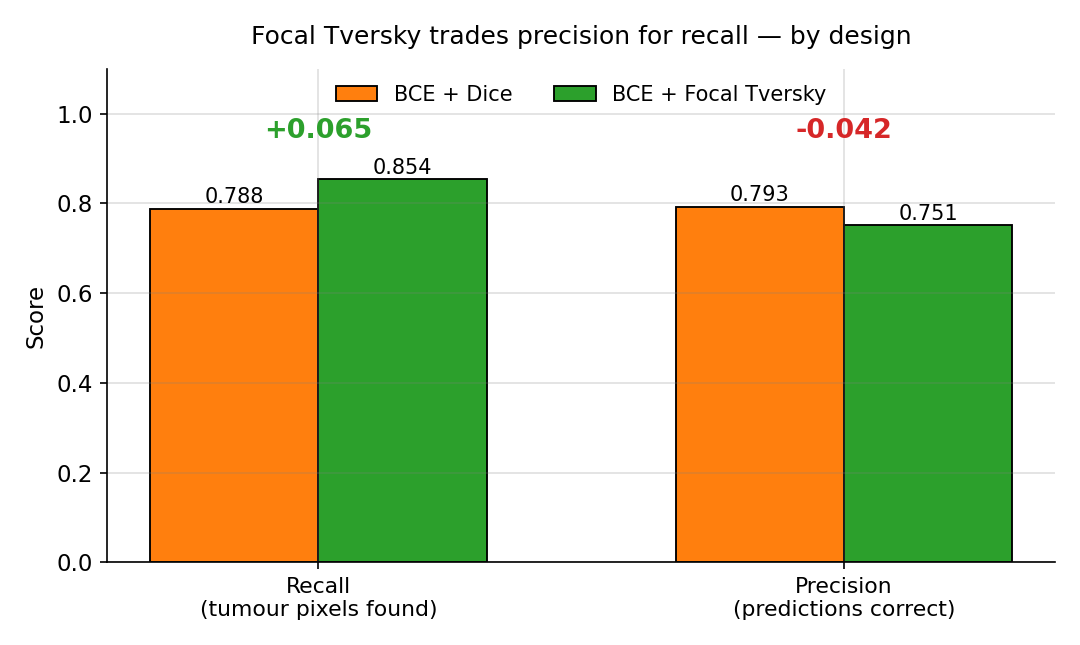
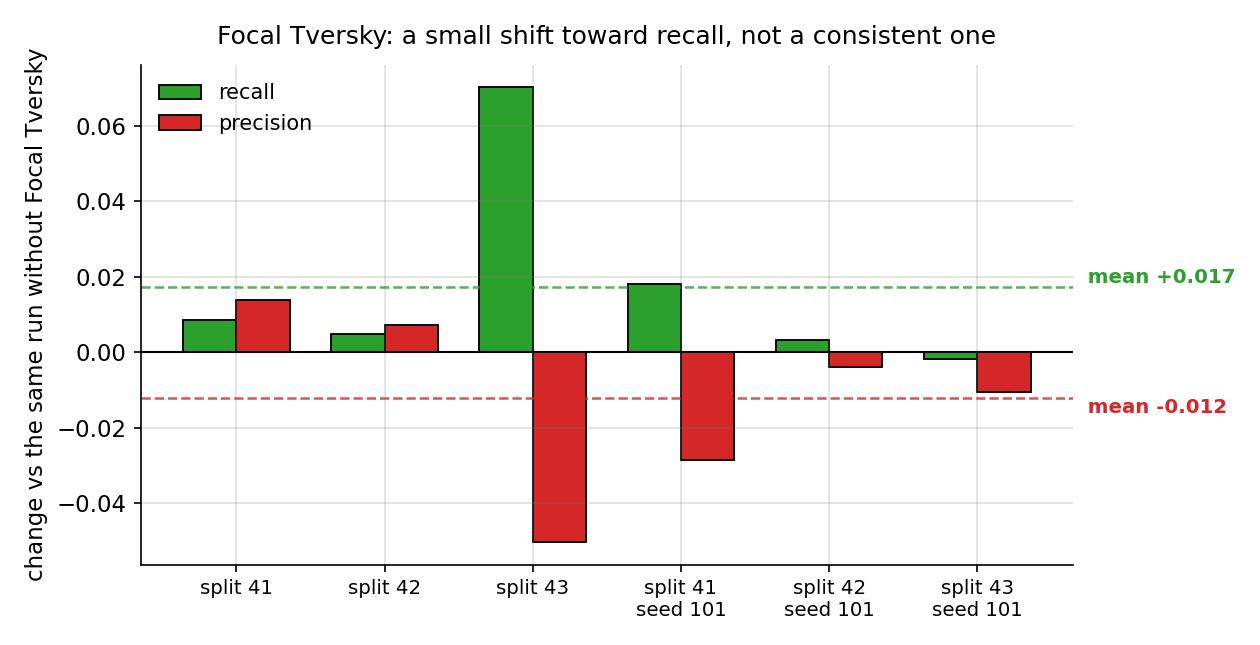
Keep the speaker notes out of the repository
The notes are working material -- rehearsal phrasing, planned answers to questions,
and candid statements about our own mistakes. They were exposed three ways: 33,329
characters embedded in the notes pane of UNeXt_presentation.pptx, the two standalone
notes decks, and the generator scripts, which carry the same text as source.

All three are now untracked and gitignored. make_pptx.py builds two files: a local
UNeXt_presentation_NOTES.pptx to present from, and the committed UNeXt_presentation.pptx
with the notes removed. make_figures.py stays tracked -- it builds figures from the run
data and contains no note text.

strip_notes.py removes the notesSlide parts and their relationships rather than blanking
the text, so nothing remains in the package to recover, and verifies the output before
returning; make_pptx.py refuses to write the shareable copy if verification fails.
Checked at the zip level: the original has 34 notesSlide parts and 7 parts containing
note phrases, the stripped copy has zero of both.

Also corrected the Focal Tversky appendix, which was outdated. It claimed recall
0.7882 -> 0.8536 and precision 0.7928 -> 0.7510. Those four numbers were hardcoded into
make_figures.py, appear in no log or eval file, and turn out to be busi_split43_ftl
alone -- the outlier. pr_eval.py now measures precision and recall from the checkpoints
for all six paired runs and writes precision_recall.csv: the real effect is recall
[…]

diff --git a/unext/pr_eval.py b/unext/pr_eval.py
@@ -1,0 +1,114 @@
+"""Pixel precision and recall per run, on the run's own validation split.
+
+The appendix slide on Focal Tversky quoted recall 0.7882 -> 0.8536 and precision
+0.7928 -> 0.7510. Those four numbers appear in no log file, no eval.yml, and nowhere in
+EXPERIMENTS.md -- they were hardcoded into make_figures.py from a measurement whose
+output no longer exists, and they describe a single split rather than the six paired
+runs we now have.
+
+This recomputes them from the checkpoints, so the figure can be built from evidence.
+
+Both conventions are reported, because they answer different questions and can disagree:
+  aggregate  -- pool every pixel in the split, then take the ratio. Large lesions
+                dominate. This matches the IoU convention train.py selects on.
+  per-image  -- compute per scan, then average. Every scan counts equally.
+
+Usage:
+    python pr_eval.py                     # the six aug/ftl pairs
+    python pr_eval.py --runs a b --csv pr.csv
+"""
+
+import argparse
+import csv
+import os
+
+import numpy as np
+import torch
+
+import boundary_eval as B
+import normal_eval as N
+
+HERE = os.path.dirname(os.path.abspath(__file__))
+
+PAIRS = [(f'busi_split{s}_ftl{sfx}', f'busi_split{s}_aug{sfx}')
+         for sfx in ('', '_s101') for s in (41, 42, 43)]
+
+
+def evaluate(name, thresh=0.5):
+    model, cfg = N.load_model(name)
+    if model is None:
+        return None
+    dev = torch.device('cuda' if torch.cuda.is_available() else 'cpu')
+    model = model.to(dev).eval()
+
+    tp = fp = fn = 0
+    precs, recs = [], []
+    with torch.no_grad():
+        for x, y, _ in B.val_loader(cfg):
+            p = (torch.sigmoid(model(x.to(dev))) > thresh).cpu().numpy()[0, 0]
+            g = y.numpy()[0, 0] > 0.5
+            a = int(np.logical_and(p, g).sum())
+            b = int(np.logical_and(p, ~g).sum())
+            c = int(np.logical_and(~p, g).sum())
+            tp += a
+            fp += b
+            fn += c
+            # per-image: a scan with no predicted positives has undefined precision;
+            # skip it there rather than scoring it 0, which would understate precision.
+            if a + b:
+                precs.append(a / (a + b))
+            if a + c:
+                recs.append(a / (a + c))
+    return {
+        'run': name,
+        'precision': tp / (tp + fp) if tp + fp else 0.0,
+        'recall': tp / (tp + fn) if tp + fn else 0.0,
+        'precision_per_image': float(np.mean(precs)) if precs else 0.0,
+        'recall_per_image': float(np.mean(recs)) if recs else 0.0,
+        'n': len(recs),
+    }
+
+
+def main():
+    ap = argparse.ArgumentParser()
+    ap.add_argument('--runs', nargs='*', default=None)
+    ap.add_argument('--csv', default='precision_recall.csv')
+    a = ap.parse_args()
+
+    runs = a.runs or sorted({r for pair in PAIRS for r in pair})
+    rows = []
+    print(f'{"run":26s} {"prec":>7} {"recall":>7} {"prec/img":>9} {"rec/img":>8}')
+    for r in runs:
+        res = evaluate(r)
+        if res is None:
+            print(f'{r}: no checkpoint')
+            continue
+        rows.append(res)
+        print(f'{res["run"]:26s} {res["precision"]:>7.4f} {res["recall"]:>7.4f} '
+              f'{res["precision_per_image"]:>9.4f} {res["recall_per_image"]:>8.4f}')
+
+    if not a.runs and rows:
+        look = {r['run']: r for r in rows}
+        print(f'\n{"pair":26s} {"d recall":>9} {"d precision":>12}')
+        dr, dp = [], []
+        for ftl, aug in PAIRS:
+            if ftl in look and aug in look:
+                x = look[ftl]['recall'] - look[aug]['recall']
+                y = look[ftl]['precision'] - look[aug]['precision']
+                dr.append(x)
+                dp.append(y)
+                print(f'{ftl.replace("busi_", ""):26s} {x:>+9.4f} {y:>+12.4f}')
+        if dr:
+            print(f'\nmean over {len(dr)} pairs:  recall {np.mean(dr):+.4f}, '
+                  f'precision {np.mean(dp):+.4f}')
+
+    if rows:
+        with open(os.path.join(HERE, a.csv), 'w', newline='', encoding='utf-8') as f:
+            w = csv.DictWriter(f, fieldnames=list(rows[0]))
+            w.writeheader()
+            w.writerows(rows)
+        print(f'\nwrote {a.csv}')
+
+
+if __name__ == '__main__':
+    main()

diff --git a/unext/make_figures.py b/unext/make_figures.py
@@ -334,30 +334,42 @@ def fig6_cumulative():
 
 
 def fig7_precision_recall():
-    """What Focal Tversky actually traded: precision for recall."""
-    fig, ax = plt.subplots(figsize=(7.2, 4.3))
-    metrics = ['Recall\n(tumour pixels found)', 'Precision\n(predictions correct)']
-    bce = [0.7882, 0.7928]
-    ftl = [0.8536, 0.7510]
-    x = np.arange(2); w = 0.32
-    ax.bar(x - w/2, bce, w, color=C_AUG, edgecolor='black', lw=0.9, label='BCE + Dice')
-    ax.bar(x + w/2, ftl, w, color=C_FTL, edgecolor='black', lw=0.9,
-           label='BCE + Focal Tversky')
-    for i in range(2):
-        ax.text(x[i] - w/2, bce[i] + 0.012, f'{bce[i]:.3f}', ha='center', fontsize=10)
-        ax.text(x[i] + w/2, ftl[i] + 0.012, f'{ftl[i]:.3f}', ha='center', fontsize=10)
-    # green where we gained, red where we paid -- the trade is the whole story
-    ax.text(0, 0.945, f'+{ftl[0]-bce[0]:.3f}', fontsize=13, ha='center',
-            fontweight='bold', color=C_FTL)
-    ax.text(1, 0.945, f'{ftl[1]-bce[1]:.3f}', fontsize=13, ha='center',
-            fontweight='bold', color=C_PAPER)
-    ax.set_xticks(x); ax.set_xticklabels(metrics, fontsize=10.5)
-    ax.set_ylabel('Score'); ax.set_ylim(0, 1.10)
-    ax.set_title('Focal Tversky trades precision for recall — by design',
-                 fontsize=12, pad=12)
-    # legend above the bars; the plot area below is fully occupied
-    ax.legend(frameon=False, fontsize=10, loc='upper center', ncol=2,
-              bbox_to_anchor=(0.5, 1.005))
+    """What Focal Tversky traded, measured across all six paired runs.
+
+    An earlier version hardcoded recall 0.7882 -> 0.8536 and precision 0.7928 -> 0.7510.
+    Those came from one split (busi_split43_ftl) and were about four times the size of
+    the real effect; pr_eval.py now measures every pair and writes precision_recall.csv.
+    The per-pair view is kept deliberately -- the mean hides that one pair moves the
+    other way on recall.
+    """
+    df = pd.read_csv('precision_recall.csv').set_index('run')
+    pairs = [(f'busi_split{s}_ftl{sfx}', f'busi_split{s}_aug{sfx}',
+              f'split {s}' + (chr(10) + 'seed 101' if sfx else ''))
+             for sfx in ('', '_s101') for s in (41, 42, 43)]
+    pairs = [p for p in pairs if p[0] in df.index and p[1] in df.index]
+
+    dr = [df.loc[f, 'recall'] - df.loc[a, 'recall'] for f, a, _ in pairs]
+    dp = [df.loc[f, 'precision'] - df.loc[a, 'precision'] for f, a, _ in pairs]
+    labels = [l for _, _, l in pairs]
+
+    fig, ax = plt.subplots(figsize=(8.4, 4.3))
+    x = np.arange(len(pairs))
+    w = 0.36
+    ax.bar(x - w / 2, dr, w, color=C_FTL, edgecolor='black', lw=0.9, label='recall')
+    ax.bar(x + w / 2, dp, w, color=C_PAPER, edgecolor='black', lw=0.9, label='precision')
+    ax.axhline(0, color='black', lw=1.0)
+    ax.axhline(np.mean(dr), color=C_FTL, ls='--', lw=1.2, alpha=0.8)
+    ax.axhline(np.mean(dp), color=C_PAPER, ls='--', lw=1.2, alpha=0.8)
+    ax.text(len(pairs) - 0.35, np.mean(dr), f'  mean {np.mean(dr):+.3f}',
+            color=C_FTL, fontsize=9.5, va='bottom', fontweight='bold')
+    ax.text(len(pairs) - 0.35, np.mean(dp), f'  mean {np.mean(dp):+.3f}',
+            color=C_PAPER, fontsize=9.5, va='top', fontweight='bold')
+    ax.set_xticks(x)
+    ax.set_xticklabels(labels, fontsize=9.5)
+    ax.set_ylabel('change vs the same run without Focal Tversky')
+    ax.set_title('Focal Tversky: a small shift toward recall, not a consistent one',
+                 fontsize=12, pad=10)
+    ax.legend(frameon=False, fontsize=10, loc='upper left')
     fig.tight_layout()
     fig.savefig(f'{OUT}/fig7_precision_recall.png')
     plt.close(fig)

diff --git a/unext/strip_notes.py b/unext/strip_notes.py
@@ -1,0 +1,73 @@
+"""Produce a speaker-note-free copy of a deck.
+
+The presentation carries its speaker notes in the notes pane of every slide -- roughly
+33,000 characters of them. Those notes are working material: they contain the phrasing
+we rehearse with, the answers we plan to give under questioning, and candid statements
+about our own mistakes. None of that belongs in a public repository or in a file handed
+to anyone but us.
+
+python-pptx has no "delete the notes" call. Emptying `notes_text_frame.text` leaves the
+notesSlide part in the package, so the relationship and an empty frame survive; that is
+enough for the text to be gone, but it leaves the structure behind. This removes the
+notesSlide part itself and drops the relationship from the slide, so a reader opening
+the file sees no notes pane content and the XML carries nothing to recover.
+
+Verification is part of the job, not an afterthought: the output is reopened and every
+slide checked, and the script fails loudly rather than silently producing a file that
+still carries notes.
+
+Usage:
+    python strip_notes.py in.pptx out.pptx
+"""
+
+import shutil
+import sys
+
+from pptx import Presentation
+
+
+def strip(src, dst):
+    """Copy `src` to `dst` with every notes slide removed. Returns slides stripped."""
+    shutil.copyfile(src, dst)
+    prs = Presentation(dst)
+    n = 0
+    for slide in prs.slides:
+        if not slide.has_notes_slide:
+            continue
+        # Drop the notes slide part and the relationship pointing at it. Clearing the
+        # text alone would leave the part in the package.
+        rels = slide.part.rels
+        drop = [rid for rid, rel in rels.items()
+                if rel.reltype.endswith('/notesSlide')]
+        for rid in drop:
+            rels._rels.pop(rid, None)
+            n += 1
+    prs.save(dst)
+    return n
+
+
+def verify(path):
+    """Reopen and confirm nothing carries notes text. Returns list of offending slides."""
+    prs = Presentation(path)
+    bad = []
+    for i, slide in enumerate(prs.slides, 1):
+        if slide.has_notes_slide:
+            t = slide.notes_slide.notes_text_frame.text.strip()
+            if t:
+                bad.append((i, len(t)))
+    return bad
+
+
+def main():
+    if len(sys.argv) != 3:
+        raise SystemExit(__doc__)
+    src, dst = sys.argv[1], sys.argv[2]
+    n = strip(src, dst)
+    bad = verify(dst)
+    if bad:
+        raise SystemExit(f'FAILED: {len(bad)} slide(s) still carry notes: {bad}')
+    print(f'{dst}: stripped {n} notes slide(s), verified clean')
+
+
+if __name__ == '__main__':
+    main()
